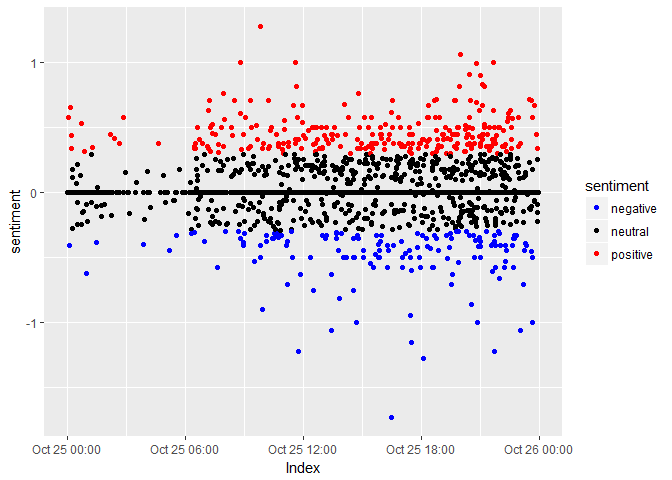
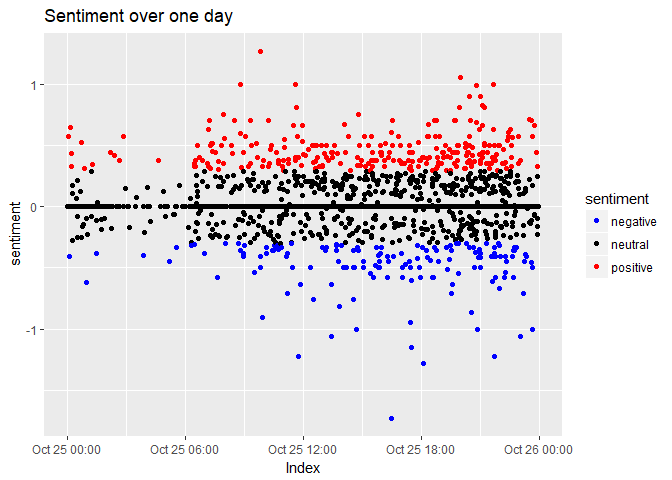
improve plotting

diff --git a/Bitcoin_Analysis/Bitcoin_Analysis.md b/Bitcoin_Analysis/Bitcoin_Analysis.md
@@ -241,7 +241,7 @@ Now that we have all the variables we will be fitting a ARIMA(2,1,1) model to th
 arorder=auto.arima(bitcoincut, ic="bic")
 bitcoinarima=arima(bitcoincut, order=c(2,1,1))
 bitcoinforcast=forecast(bitcoinarima, h=180)
-plot(bitcoinforcast)
+plot(bitcoinforcast, main='Bitcoin Price Forecast')
 ```
 
 ![](Bitcoin_Analysis_files/figure-markdown_github-ascii_identifiers/unnamed-chunk-20-1.png)
@@ -252,17 +252,17 @@ To see if our model is reasonable, we cut part of the Bitcoin data from 2016-01-
 
 ``` r
 #predict the price of Bitcoin in 2016 using 2014 - 2015 data
-bitcoinoneyear= window(bitcoincut, start(bitcoincut), c(2016))
+bitcoinoneyear= window(bitcoincut, start(bitcoincut), c(2017))
 bitcoinarima=arima(bitcoinoneyear, order=c(2,1,1))
-bitcoinforcast=forecast(bitcoinarima, h=270)
+bitcoinforcast=forecast(bitcoinarima, h=180)
 
 # plots both forcast and the actually bitcoin price
-plot(bitcoinforcast)
+plot(bitcoinforcast, main='Bitcoin Price forecast Validation')
 lines(bitcoincut)
 ```
 
 ![](Bitcoin_Analysis_files/figure-markdown_github-ascii_identifiers/unnamed-chunk-21-1.png)
 
-For the most part the price seem to lies within the 95% confidence interval, however it did over shoot the interval slightly around May 2016. This can be caused by not taking some of the coefficients from before, or another bubble in Bitcoin forming.
+Unfortunately, I was not able to predict the hugh volitility increase in the Bitcoin price at the beginning of 2017. The large jump in prices went over the 95% confidence interval. The ARIMA model is only valid if the volitility remains the same
 
 ------------------------------------------------------------------------

diff --git a/Twitter_Sentiement_Analysis/Twitter_sentiment_Analysis.md b/Twitter_Sentiement_Analysis/Twitter_sentiment_Analysis.md
@@ -169,7 +169,8 @@ ggplot(qdap, aes(Index, sentiment))  +
                      values = c("(-8,-0.3]" = "blue",
                                 "(-0.3,0.3]" = "black",
                                 "(0.3,8]" = "red"),
-                     labels = c( "negative", "neutral", "positive"))
+                     labels = c( "negative", "neutral", "positive"))+
+  labs(title = 'Sentiment over one week')
 ```
 
 ![](Twitter_sentiment_Analysis_files/figure-markdown_github-ascii_identifiers/unnamed-chunk-7-1.png)
@@ -183,20 +184,11 @@ ggplot(wed, aes(Index, sentiment))  +
                      values = c("(-8,-0.3]" = "blue",
                                 "(-0.3,0.3]" = "black",
                                 "(0.3,8]" = "red"),
-                     labels = c( "negative", "neutral", "positive"))
+                     labels = c( "negative", "neutral", "positive"))+
+  labs(title = 'Sentiment over one day')
 ```
 
 ![](Twitter_sentiment_Analysis_files/figure-markdown_github-ascii_identifiers/unnamed-chunk-7-2.png)
-
-``` r
-# qdap_pos=qdap[qdap$positive==1|qdap$negative==1]
-# 
-# ggplot(qdap_pos) + 
-#   geom_boxplot(aes(x=Index, y=sentiment,group=format(index(qdap_pos), "%d")))
-# 
-# ggplot(wed) + 
-#   geom_boxplot(aes(x=Index, y=sentiment,group=format(index(wed), "%H")))
-```
 
 ``` r
 #sum over hour
